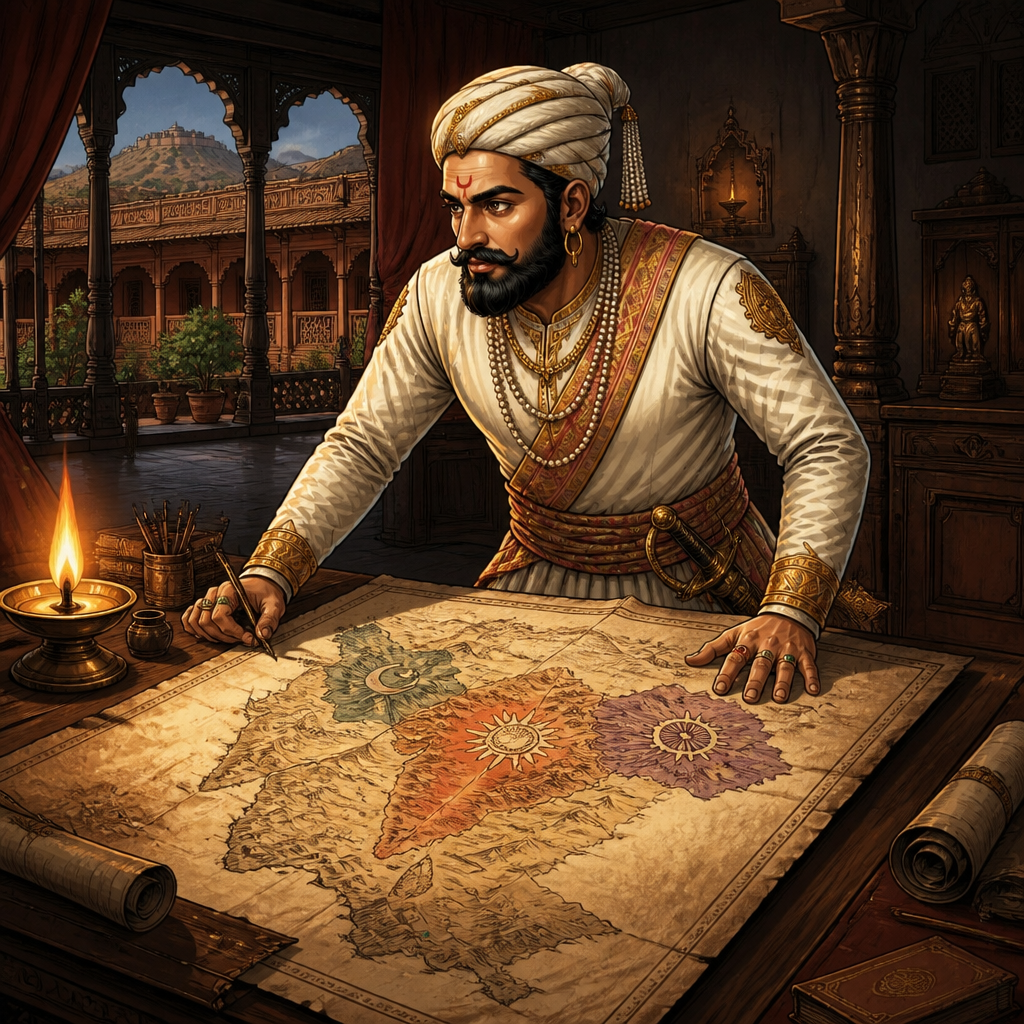
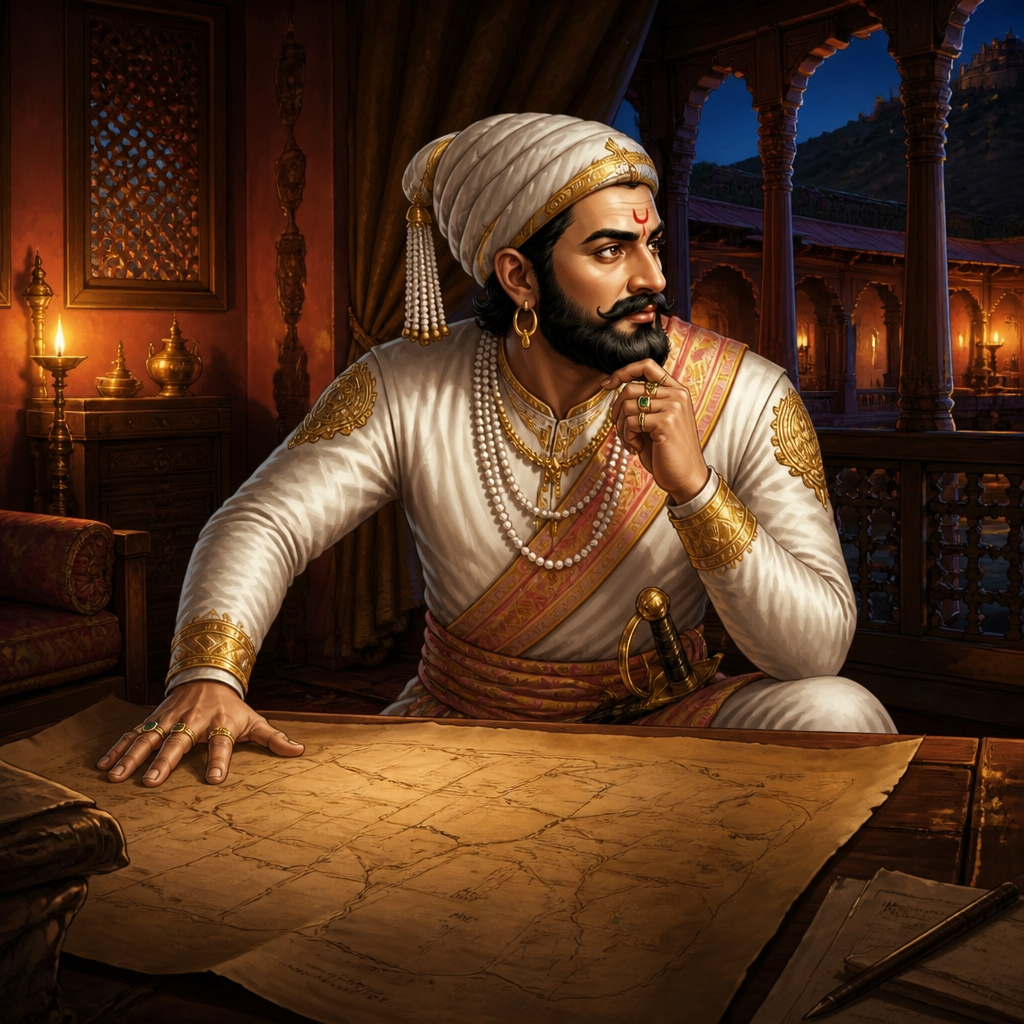
Ch.16 art fixes: map scene jiretop + blank map; Shahaji-freed sword/chains
- ch16-the-bigger-map: corrected Shivaji's jiretop to the established
  shape; replaced the inaccurate detailed map with a deliberately vague,
  label-free old parchment (no real geography implied).
- ch16-shahaji-freed: removed the (unnecessary) broken chains entirely and
  fixed the talwar scabbard to hang correctly at his left side.

diff --git a/docs/ch16.html b/docs/ch16.html
@@ -56,10 +56,10 @@
     <div class="series">Chhatrapati Shivaji &middot; Volume 1 &middot; The Boy of Shivneri</div>
     <h1>Chapter 16 — The Cleverest Letter</h1>
   </header>
-  <section class="references"><h2>Who &amp; Where in this chapter</h2><h3>Characters</h3><div class="refgrid"><figure class="refcard"><img loading="lazy" src="https://hel1.your-objectstorage.com/openclaw83/shivaji/reference/characters/murad-bakhsh.png?v=1780922965" alt="Prince Murad Bakhsh (Mughal prince)"><figcaption><strong>Prince Murad Bakhsh (Mughal prince)</strong><span class="reftype">character</span><span class="refdesc">Prince Murad Bakhsh, a son of the Mughal Emperor Shah Jahan and the Mughal viceroy of the Deccan around 1649 — depicted with full dignity as a young Mughal royal, an individual, never a caricature.</span></figcaption></figure></div><h3>Places</h3><div class="refgrid"><figure class="refcard"><img loading="lazy" src="https://hel1.your-objectstorage.com/openclaw83/shivaji/reference/locations/mughal-court.png?v=1780922965" alt="The Mughal court (Deccan)"><figcaption><strong>The Mughal court (Deccan)</strong><span class="reftype">location</span><span class="refdesc">A grand Mughal audience hall — the opulent court of a Mughal prince, in the rich NORTHERN-Mughal imperial style (distinct from the Deccan-Islamic Bijapur durbar): elegant cusped (multifoil) arches in pale red-sandstone and white marble, fine pietra-dura floral inlay, slender columns, sumptuous carpets and bolsters, hanging lamps, gauzy drapes, and a raised canopied throne/dais.</span></figcaption></figure></div></section>
+  <section class="references"><h2>Who &amp; Where in this chapter</h2><h3>Characters</h3><div class="refgrid"><figure class="refcard"><img loading="lazy" src="https://hel1.your-objectstorage.com/openclaw83/shivaji/reference/characters/murad-bakhsh.png?v=1780978651" alt="Prince Murad Bakhsh (Mughal prince)"><figcaption><strong>Prince Murad Bakhsh (Mughal prince)</strong><span class="reftype">character</span><span class="refdesc">Prince Murad Bakhsh, a son of the Mughal Emperor Shah Jahan and the Mughal viceroy of the Deccan around 1649 — depicted with full dignity as a young Mughal royal, an individual, never a caricature.</span></figcaption></figure></div><h3>Places</h3><div class="refgrid"><figure class="refcard"><img loading="lazy" src="https://hel1.your-objectstorage.com/openclaw83/shivaji/reference/locations/mughal-court.png?v=1780978651" alt="The Mughal court (Deccan)"><figcaption><strong>The Mughal court (Deccan)</strong><span class="reftype">location</span><span class="refdesc">A grand Mughal audience hall — the opulent court of a Mughal prince, in the rich NORTHERN-Mughal imperial style (distinct from the Deccan-Islamic Bijapur durbar): elegant cusped (multifoil) arches in pale red-sandstone and white marble, fine pietra-dura floral inlay, slender columns, sumptuous carpets and bolsters, hanging lamps, gauzy drapes, and a raised canopied throne/dais.</span></figcaption></figure></div></section>
   <article>
   <p>For three days after the battle, Shivaji did not look at a single fort. He looked at a map.</p>
-<figure class="event"><img loading="lazy" src="https://hel1.your-objectstorage.com/openclaw83/shivaji/events/ch16/ch16-the-bigger-map.png?v=1780922965" alt="Three giants, not one"><figcaption>Three giants, not one</figcaption></figure>
+<figure class="event"><img loading="lazy" src="https://hel1.your-objectstorage.com/openclaw83/shivaji/events/ch16/ch16-the-bigger-map.png?v=1780978651" alt="Three giants, not one"><figcaption>Three giants, not one</figcaption></figure>
 <p>Not his own charcoal map of the hills, the one he had drawn by a fire all those years ago. A bigger one. The whole Deccan, spread across half of India — and on it, three giants, not one.</p>
 <p>There was Bijapur in the south, the sultanate his family served and defied. There was Golconda away to the east, rich with diamonds. And there, pressing down from the north like a slowly closing hand, was the greatest of them all: the Mughal empire, the mightiest power in the world, whose emperor in distant Delhi ruled more people and more gold than Shivaji could properly imagine.</p>
 <p>He had beaten Fateh Khan. He could not beat <em>that.</em> Not with every hillman in the Sahyadris.</p>
@@ -80,9 +80,9 @@
 <hr class="scene">
 <p>So he wrote it — and it was, even by his standards, a small masterpiece of saying one thing and meaning another.</p>
 <p>Every line of it glowed with loyalty and respect for the mighty Mughal prince. Every line hinted, delicately, at how very valuable the friendship of the Bhonsles might someday be. Nowhere did it say <em>free my father or I defect.</em> It did not have to. The threat was not in the ink; the threat was in the simple fact that the letter <em>existed</em> — that the boy in the hills was now a name the Mughal court knew, a door standing very slightly open.</p>
-<figure class="event"><img loading="lazy" src="https://hel1.your-objectstorage.com/openclaw83/shivaji/events/ch16/ch16-mughal-prince.png?v=1780922965" alt="The empire takes notice"><figcaption>The empire takes notice</figcaption></figure>
+<figure class="event"><img loading="lazy" src="https://hel1.your-objectstorage.com/openclaw83/shivaji/events/ch16/ch16-mughal-prince.png?v=1780978651" alt="The empire takes notice"><figcaption>The empire takes notice</figcaption></figure>
 <p>When it was finished he folded it, and warmed the wax, and pressed his own seal into it — the Sanskrit seal, the one that shone <em>for the welfare of the people</em> — and sent it north, into the territory of the most dangerous men in India.</p>
-<figure class="event hero"><img loading="lazy" src="https://hel1.your-objectstorage.com/openclaw83/shivaji/events/ch16/ch16-the-letter.png?v=1780922965" alt="The cleverest letter"><figcaption>The cleverest letter</figcaption></figure>
+<figure class="event hero"><img loading="lazy" src="https://hel1.your-objectstorage.com/openclaw83/shivaji/events/ch16/ch16-the-letter.png?v=1780978651" alt="The cleverest letter"><figcaption>The cleverest letter</figcaption></figure>
 <p>It was a strange and dangerous game to be playing. He was reaching out, for the very first time, to the great empire of the north — the giant that would, one distant day, become the deadliest enemy of his entire life. He could not have known that yet. But some part of him felt the size of what he was touching, and was sober about it even as he sealed the letter.</p>
 <p>For now, the giant served his purpose simply by <em>noticing</em> him.</p>
 <hr class="scene">
@@ -90,13 +90,13 @@
 <p>Far to the south, in the marble court of Bijapur, the mood around Shahaji&#x27;s imprisonment changed almost overnight. The same lords who had been so pleased to chain him began, suddenly, to look nervous. Word had reached them — as Shivaji had known it would — that the Bhonsle boy was being courted by the Mughals, and was perhaps courting them back.</p>
 <p>The arithmetic was brutally simple, and Bijapur did it fast. A dead Shahaji was worth nothing. A freed Shahaji, sent home grateful, might keep his dangerous sons loyal to Bijapur and <em>out</em> of Mughal hands. Suddenly the most sensible thing the Sultan could do was the very thing Shivaji wanted: let the prisoner go.</p>
 <p>In the spring, after long months in chains, Shahaji Bhonsle walked out of his imprisonment a free man.</p>
-<figure class="event"><img loading="lazy" src="https://hel1.your-objectstorage.com/openclaw83/shivaji/events/ch16/ch16-shahaji-freed.png?v=1780922965" alt="Freed by a folded paper"><figcaption>Freed by a folded paper</figcaption></figure>
+<figure class="event"><img loading="lazy" src="https://hel1.your-objectstorage.com/openclaw83/shivaji/events/ch16/ch16-shahaji-freed.png?v=1780978651" alt="Freed by a folded paper"><figcaption>Freed by a folded paper</figcaption></figure>
 <p>He had not been freed by an army. No fort had been stormed for him, no battle fought at his cell door. He had been freed by a folded piece of paper, and by a son clever enough to frighten an empire&#x27;s enemies with the mere <em>suggestion</em> of a friendship he never intended to keep.</p>
 <hr class="scene">
 <p>It was not free, of course. Nothing ever was.</p>
 <p>The price of Shahaji&#x27;s life was paid in stone. To seal the peace and prove he would behave, Shivaji had to hand back one of his hard-won forts — and the one Bijapur demanded was <strong>Kondhana</strong>, the great fortress he had won so beautifully, without a single drop of blood, over a cup of tea with a tired old soldier. He had to give it back.</p>
 <p>He did it without hesitating, and he did not let anyone see it cost him anything. But it cost him. He thought of old Siddi Amber and the iron key on the table, and he handed the mountain back to Bijapur, and he made himself a quiet promise that he did not say out loud: <em>not forever. I am giving you back this stone for my father&#x27;s life, and that is a good trade, the best I ever made. But not forever.</em></p>
-<figure class="event"><img loading="lazy" src="https://hel1.your-objectstorage.com/openclaw83/shivaji/events/ch16/ch16-give-back-kondhana.png?v=1780922965" alt="The price, paid in stone"><figcaption>The price, paid in stone</figcaption></figure>
+<figure class="event"><img loading="lazy" src="https://hel1.your-objectstorage.com/openclaw83/shivaji/events/ch16/ch16-give-back-kondhana.png?v=1780978651" alt="The price, paid in stone"><figcaption>The price, paid in stone</figcaption></figure>
 <p>There was a second part to the price, and in its way it was heavier than the fort. He had to <em>promise to sit still.</em> To stop taking forts. To stop being trouble. To be, for a while, the quiet and obedient young nobleman Bijapur wished he were.</p>
 <p>For a boy with a vow burning a hole in his chest, it was the hardest price of all.</p>
 <hr class="scene">

diff --git a/docs/index.html b/docs/index.html
@@ -18,7 +18,7 @@
   a:hover { text-decoration:underline; }
 </style></head>
 <body>
-  <img class="cover" src="https://hel1.your-objectstorage.com/openclaw83/shivaji/cover/cover.png?v=1780922965" alt="The Boy of Shivneri — cover">
+  <img class="cover" src="https://hel1.your-objectstorage.com/openclaw83/shivaji/cover/cover.png?v=1780978651" alt="The Boy of Shivneri — cover">
   <h2 class="toc">Contents</h2>
   <ul><li><a href="ch01.html">Chapter 1 — The Road to Shivneri</a></li>
 <li><a href="ch02.html">Chapter 2 — A Boy Among Soldiers</a></li>